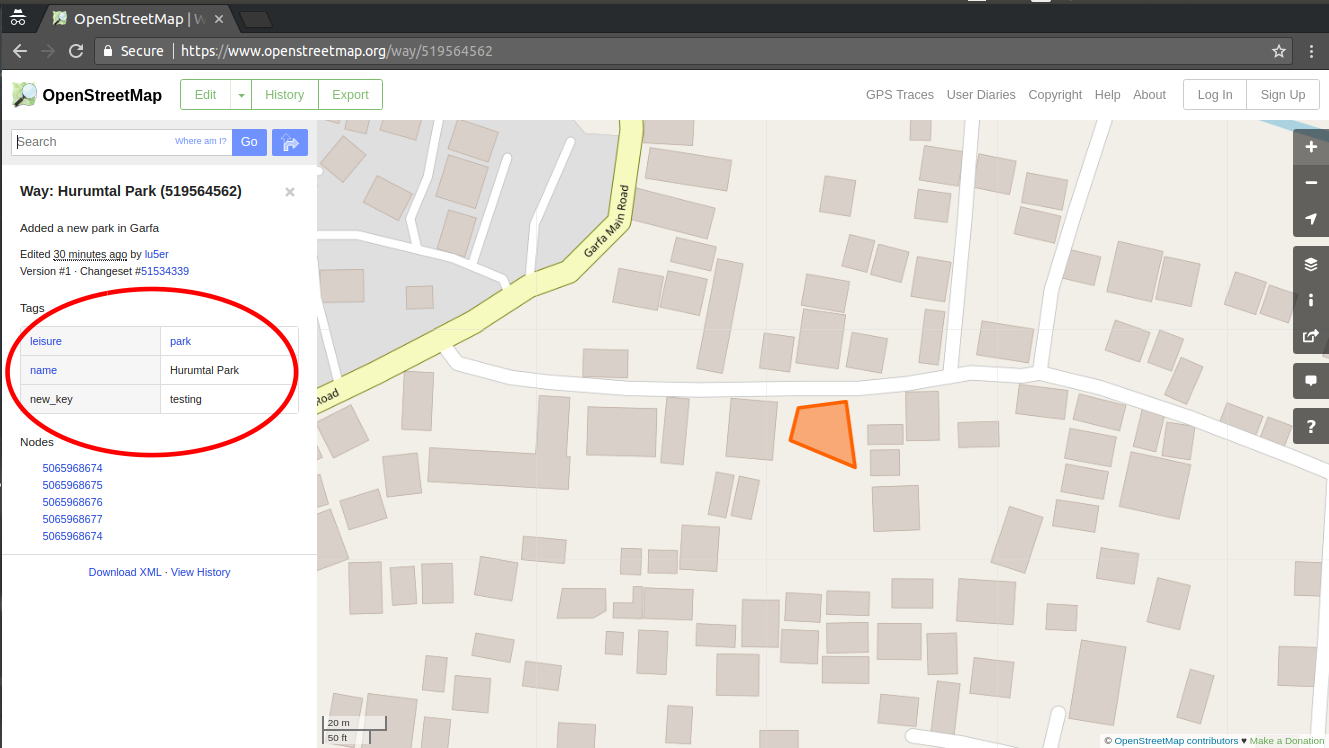
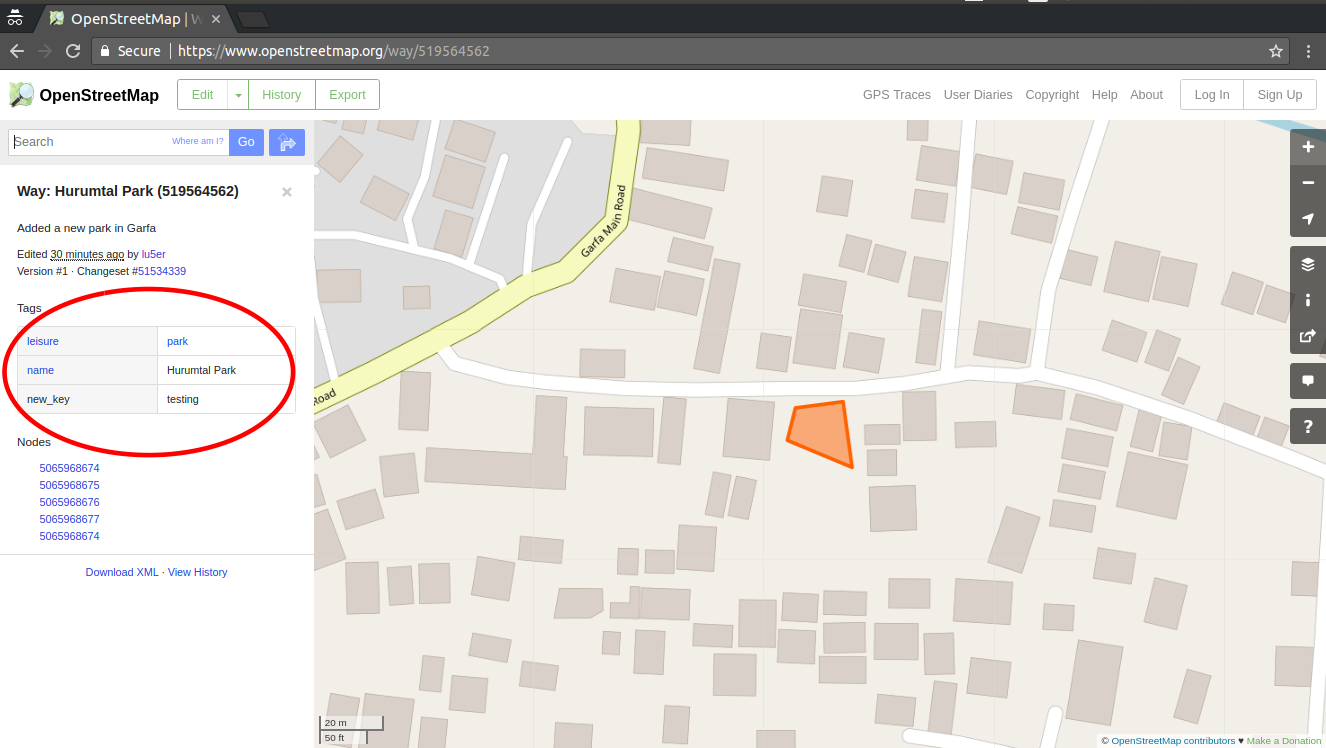
feat: Updated README and screenshots.

diff --git a/README.md b/README.md
@@ -1,1 +1,30 @@
-### Touching Up. Yeah! Need some patience.
+Wrangle OpenStreetMap Data
+===================
+
+This repo contains files for my "P4 | Wrangle OpenStreetMap Data", completed as a part of Data Analyst Nanodegree in Udacity.
+
+----------
+
+
+Documents
+--
+
+* <i class="icon-folder-open"></i>**Datasets**: This folder contains the downloaded extract of Kolkata from Mapzen.
+	* **custom_kolkata.osm.bz2**: My custom extract of Kolkata.
+	*  **kolkata_india.osm.bz2**: The popular extract of Kolkata.
+* <i class="icon-folder-open"></i>**Documentation**: This folder contains actual report of this project.
+	*  **Kolkata.ipynb**: This is the Jupyter Notebook containing the detailed report of my Data Wrangling project.
+* <i class="icon-folder-open"></i>**maps_uncompressed**: This folder contains the unzipped extracts and converted JSON for MongoDB import.
+	* **custom_kolkata.osm**: The unzipped version of the custom extract of Kolkata.
+	* **custom_kolkata.osm.json**: The JSON equivalent of the uncompressed .osm map.
+	* **sample1.osm**: A partial equivalent of the uncompressed map mainly used for debugging purposes.
+* <i class="icon-folder-open"></i>**Screenshots**: This folder contains the necessary screenshots used as a suggestion for possible improvement of the OSM.
+* <i class="icon-file"></i>**sampler.py**: This python script converts the large OSM file to a small sample mainly used for debugging.
+* <i class="icon-file"></i>**map_parser.py**: This python script finds the statistics of various tags used in OSM XML.
+* <i class="icon-file"></i>**unique_tag_key_finder.py**: This python script finds all the "tag"s unique key values.
+* <i class="icon-file"></i>**unusual_tag_key_finder.py**: This python script finds all the "tag"s unique key values that do not have a proper wiki defined in [tagsingo](https://taginfo.openstreetmap.org/).
+* <i class="icon-file"></i>**bad_regex_tag_key_finder.py**: The "tag"s unusual key values are grouped according to OSM standards, thus pointing which of them seek immediate attention.
+
+> *the python scripts are listed according to the execution order*
+
+---
